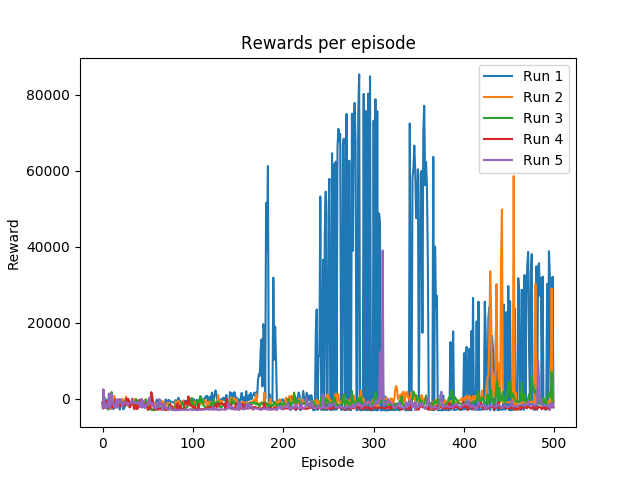
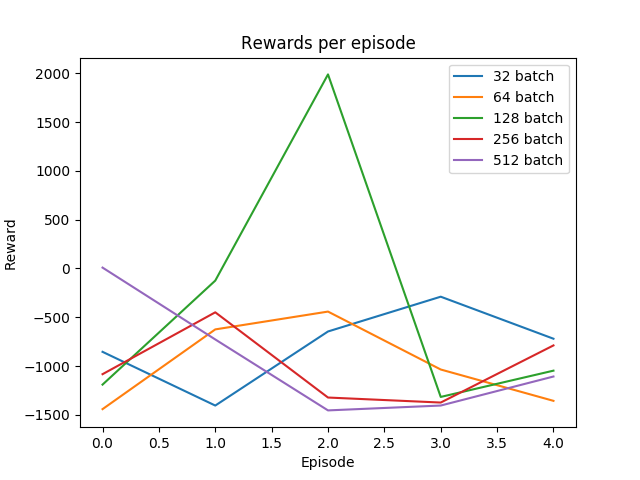
stable version, adding liors vanilla test

diff --git a/project/hendrik/script.py b/project/hendrik/script.py
@@ -19,46 +19,64 @@ def print_timestamp(string = ""):
 def print_setup():
     print("---------------------------------------------------------------------------------")
     print("| Setup: \t\t\t\t\t\t\t\t\t|")
-    print("| Memory fill:\t\t\t{}\t\tBatch Size:\t\t{}\t|".format(
+    print("| Memory fill:\t\t\t{}\t\tBatch: {}\t|".format(
     MEMORY_FILL, BATCH_SIZE ,  agent.init_epsilon))
     print("| Discount: \t\t\t{}\t\tEpsilon constant: \t{}\t|".format(agent.gamma,agent.decay_const ))
     print("| Start Epsilon:\t\t{}\t\tEpsilon decay rate:\t{}\t|".format(
-    agent.init_epsilon, agent.eps_decay_rate ))
+    agent.init_epsilon+agent.decay_const, agent.eps_decay_rate ))
     print("| Learning rate:\t\t{}\t\tUpdate rate model:\t{}\t|".format(
     agent.learning_rate, agent.train_marker ))
     print("| Reward function:\t\t{}\tTimesteps:\t\t{}\t|".format(env.reward_fn_string, TIMESTEPS))
     print("| Update rate target model \t{}\t\tEpisodes:\t\t{}\t|".format(agent.update_target_marker, TRAINING_EPISODES))
     print("---------------------------------------------------------------------------------")
 
+
+def test_run(agent):
+    test_reward_list = []
+    for i in range(TESTS):
+        test_episode_reward = 0
+        env.seed(i)
+        state = env.reset()
+        state = state.reshape((1,3))
+        for _ in range(500):
+
+            action = agent.act(state, False)[0]
+            next_state, reward, done, _ = env.step(agent.discrete_actions[action], True)
+            next_state = np.round(next_state,2)
+
+            state = next_state
+            test_episode_reward += reward
+        test_reward_list.append(test_episode_reward)
+    avg_test_reward = np.mean(test_reward_list)
+    print("\naverage reward: {}".format(avg_test_reward))
+    return avg_test_reward
+
+
 ######## CONSTANTS ############################################################
 #def: 50000
 MEMORY_SIZE = 8000000
-MEMORY_FILL = 8000
+MEMORY_FILL = 800#0
 memory = []
 #def: 30000
-TRAINING_EPISODES = 500
+TRAINING_EPISODES = 5#00
 AUTO_SAVER = 50
 SHOW_PROGRESS = 25
 # def: 2000
-TIMESTEPS = 1000
-BATCH_SIZE = 128
+TIMESTEPS = 500
+BATCH_SIZE = [32, 64, 128, 256, 512]
 RUNS = 5
-
+TEST_PROGRESS = 1
+TESTS = 1
 
 ####### INTIALISATION ##########################################################
 weights_file = "network.h5"
-
-
 input_shape = 3
-load_existent_model = False
-env = PendulumEnv(reward_function = 1)
-agent = DankAgent([-env.max_torque,env.max_torque], input_shape, BATCH_SIZE)
-
-if load_existent_model:
-    agent.load(weights_file)
+env = PendulumEnv()
+agent = DankAgent([-env.max_torque,env.max_torque], input_shape, BATCH_SIZE[0])
 agent.model.summary()
 agent.model.save_weights('model_init_weights.h5')
 agent.target_model.save_weights('target_model_init_weights.h5')
+
 
 nepisodes = 0
 nepisodes = 0
@@ -67,22 +85,24 @@ list_acc_reward = [[] for _ in range(RUNS)]
 list_episode_reward = [[] for _ in range(RUNS)]
 
 list_epsilon = [[] for _ in range(RUNS)]
-list_time = []
+list_avg_reward = [[] for _ in range(RUNS)]
 
+list_time = []
 
 print_setup()
 
 for run in range(RUNS):
-
-
     # resetting the agent
+
+    env = PendulumEnv()
+    agent = DankAgent([-env.max_torque,env.max_torque], input_shape, BATCH_SIZE[run])
     acc_reward = 0
     memory = []
     agent.model.load_weights('model_init_weights.h5')
     agent.target_model.load_weights('target_model_init_weights.h5')
-    agent.q_target = np.zeros((512,20))
-    agent.t = np.zeros((512,20))
-    agent.a = np.zeros((512,20))
+    agent.q_target = np.zeros((BATCH_SIZE[run],int(agent.ticks)))
+    agent.t = np.zeros((BATCH_SIZE[run],int(agent.ticks)))
+    agent.a = np.zeros((BATCH_SIZE[run],int(agent.ticks)))
     agent.epsilon = 1.0
 
 
@@ -90,7 +110,7 @@ for run in range(RUNS):
     start_time = time.time()
 
     for ep in range(TRAINING_EPISODES):
-        if ep+1 % AUTO_SAVER == 0 and nepisodes != 0:
+        if (ep+1) % AUTO_SAVER == 0 and nepisodes != 0:
             print_timestamp("saved")
             str_status = 'saved'
             agent.save(weights_file)
@@ -98,18 +118,19 @@ for run in range(RUNS):
         #state = np.array((state[0],state[2]))
         state = np.round(state,2)
         episode_reward = 0
-
+        if (ep+1) % TEST_PROGRESS == 0 and ep != 0:
+            list_avg_reward[run].append(test_run(agent))
         if ep < 1:
             print("filling memory")
         while len(memory) < MEMORY_FILL and ep < 1:
             action = agent.act(state, True)[0]
 
-            next_state, reward, done , _ = env.step(agent.discrete_actions[action])
+            next_state, reward, done , _ = env.step(agent.discrete_actions[action], False)
             next_state = np.round(next_state,2)
             memory.append((state, action, reward+10*run, next_state, done))
 
-            if len(memory) > BATCH_SIZE:
-                batch = random.sample(memory, BATCH_SIZE)
+            if len(memory) > BATCH_SIZE[run]:
+                batch = random.sample(memory, BATCH_SIZE[run])
                 agent.train(batch,memory)
 
             state = next_state
@@ -118,7 +139,7 @@ for run in range(RUNS):
             print("memory filled with {} samples".format(MEMORY_FILL))
 
         for t in range(TIMESTEPS):
-            if ep % SHOW_PROGRESS == 0 and ep != 0 and len(memory) >= MEMORY_FILL:
+            if (ep+1) % SHOW_PROGRESS == 0 and ep != 0 and len(memory) >= MEMORY_FILL:
                 env.render()
                 sys.stdout.flush()
                 # print("\rRendering episode {}/{}".format(ep,TRAINING_EPISODES),end="")
@@ -129,7 +150,7 @@ for run in range(RUNS):
             action = agent.act(state, True)[0]
             #print(state)
 
-            next_state, reward, done , _ = env.step(agent.discrete_actions[action])
+            next_state, reward, done , _ = env.step(agent.discrete_actions[action], False)
             #next_state = np.array((next_state[0],next_state[2]))
             next_state = np.round(next_state,2)
 
@@ -141,8 +162,8 @@ for run in range(RUNS):
             memory.append(np.array((state, action, reward, next_state, done)))
 
 
-            if len(memory) >= BATCH_SIZE:
-                batch = random.sample(memory, BATCH_SIZE)
+            if len(memory) >= BATCH_SIZE[run]:
+                batch = random.sample(memory, BATCH_SIZE[run])
 
                 agent.train(batch,memory)
             else:
@@ -158,7 +179,6 @@ for run in range(RUNS):
                 agent.epsilon,str_status),end="")
         sys.stdout.flush()
 
-            # print("Episode {}/{}\t| Step: {}\t| Reward: {}\t".format(ep, TRAINING_EPISODES,t,episode_reward))
         agent.epsilon = agent.init_epsilon*np.exp(-agent.eps_decay_rate*ep)+agent.decay_const
 
 
@@ -166,10 +186,6 @@ for run in range(RUNS):
         list_acc_reward[run].append(acc_reward)
         list_epsilon[run].append(agent.epsilon)
 
-
-        nepisodes += 1
-        if agent.cnt % agent.update_target_marker == 0:
-            agent.update_target_model()
 
     print("\n")
     end_time = time.time()
@@ -207,10 +223,24 @@ for run in range(RUNS):
     # plt.title("Accumulated Reward over Time (Smoothed over window size {})".format(smoothing_window))
     # fig3.savefig('acc_reward.png')
 
+plt.figure()
+for i in range(RUNS):
+    plt.plot(list_avg_reward[i], label='{} batch'.format(BATCH_SIZE[i]))
+plt.plot(np.mean(list_avg_reward,axis=0), label = 'mean')
+plt.plot(np.mean(list_avg_reward,axis=0)+np.std(list_acc_reward), label = 'mean+std. dev.',linestyle = '--', color='pink')
+plt.plot(np.mean(list_avg_reward,axis=0)-np.std(list_acc_reward), label = 'mean-std. dev.',linestyle = '--',color='pink')
+plt.title("Avg. reward in a intermediate test every {} episodes".format(TEST_PROGRESS))
+plt.xlabel("Test")
+plt.ylabel("Reward")
+plt.legend()
+plt.savefig('avg_test_reward.png')
+
+
+
 
 plt.figure()
 for i in range(RUNS):
-    plt.plot(list_episode_reward[i], label='Run {}'.format(i+1))
+    plt.plot(list_episode_reward[i], label='{} batch'.format(BATCH_SIZE[i]))
 plt.title("Rewards per episode")
 plt.xlabel("Episode")
 plt.ylabel("Reward")
@@ -220,7 +250,7 @@ plt.savefig('reward_per_episode.png')
 
 plt.figure()
 for i in range(RUNS):
-    plt.plot(list_acc_reward[i],label='Run {}'.format(i+1))
+    plt.plot(list_acc_reward[i],label = '{} batch'.format(BATCH_SIZE[i]))
 plt.plot(np.mean(list_acc_reward,axis=0), label = 'mean')
 plt.plot(np.mean(list_acc_reward,axis=0)+np.std(list_acc_reward), label = 'mean+std. dev.',linestyle = '--', color='pink')
 plt.plot(np.mean(list_acc_reward,axis=0)-np.std(list_acc_reward), label = 'mean-std. dev.',linestyle = '--',color='pink')

diff --git a/project/hendrik/pendulum.py b/project/hendrik/pendulum.py
@@ -11,7 +11,7 @@ class PendulumEnv(gym.Env):
         'video.frames_per_second' : 1
     }
 
-    def __init__(self, reward_function=0):
+    def __init__(self): #, reward_function=0):
         self.max_speed=8
         self.max_torque=2.
         self.dt=.05
@@ -23,16 +23,18 @@ class PendulumEnv(gym.Env):
 
         self._seed()
 
-        if reward_function == 0:
-            self.reward_fn_string = "binary"
-            def reward(pendulum):
+        # if reward_function == 0:
+        self.reward_fn_string = "binary"
+        def reward(pendulum):
+            return 1 if -0.1 <= angle_normalize(pendulum.state[0]) <= 0.1 else 0
+        self.reward = reward
+    # else:
+        self.reward_fn_string = "heuristic"
+        def my_reward(pendulum, vanilla):
+            if vanilla:
                 return 1 if -0.1 <= angle_normalize(pendulum.state[0]) <= 0.1 else 0
-            self.reward = reward
-        else:
-            self.reward_fn_string = "heuristic"
-            def my_reward(pendulum):
-                # print("angle_normalize(pendulum.state[0])")
-                if -0.05 <= angle_normalize(pendulum.state[0]) <= 0.05:
+            else:
+                if -0.1 <= angle_normalize(pendulum.state[0]) <= 0.1:
                     if np.abs(pendulum.state[1]) > 1:
                         return 0
                     else:
@@ -40,25 +42,13 @@ class PendulumEnv(gym.Env):
                 else:
                     return (-1 * np.abs(angle_normalize(pendulum.state[0])))
 
-                    #if -0.025 <= angle_normalize(pendulum.state[0]) <= 0.025 and np.abs(velocity) < 2.0:
-                    #    return 10-np.abs(velocity)
-                    #else:
-                    #    if -0.05 <= angle_normalize(pendulum.state[0]) <= 0.05 and np.abs(velocity) < 2.0:
-                    #        return 20-np.abs(velocity)
-                    #    else:
-                    #        if -0.01 <= angle_normalize(pendulum.state[0]) <= 0.1 and np.abs(velocity) < 2.0:
-                    #            return 50-np.abs(velocity)
-                    #        else:
-                                # return (1-np.abs(angle_normalize(pendulum.state[0])))*1
-                                # print(velocity)
-                    #            return -10
-            self.reward = my_reward
+        self.reward = my_reward
 
     def _seed(self, seed=None):
         self.np_random, seed = seeding.np_random(seed)
         return [seed]
 
-    def step(self,u):
+    def step(self,u, vanilla = False):
         th, thdot = self.state
 
         g = 10.
@@ -72,7 +62,7 @@ class PendulumEnv(gym.Env):
         newth = th + newthdot*dt
         newthdot = np.clip(newthdot, -self.max_speed, self.max_speed)
 
-        reward = self.reward(self)
+        reward = self.reward(self, vanilla)
 
         self.state = np.array([newth, newthdot])
         # print(angle_normalize(self.state[0]))

diff --git a/project/hendrik/pendulumAgent.py b/project/hendrik/pendulumAgent.py
@@ -26,8 +26,8 @@ class DankAgent():
         self.model = self._build_model()
         self.target_model = self._build_target_model()
         self.cnt = 1
-        self.train_marker = 20
-        self.update_target_marker = 1
+        self.train_marker = 1
+        self.update_target_marker = 20
 
 
     def _discretize_actions(self):
@@ -71,25 +71,17 @@ class DankAgent():
         if en_explore == True:
             pick = np.random.choice(['random','greedy'], p = [self.epsilon,1-self.epsilon])
 
-            # if random.random() <= self.epsilon and en_explore:
             if pick == 'random':
-                # print(pick)
-                # action = random.choice(self.disc_actions)==self.disc_actions
                 action = np.where(self.disc_actions==random.choice(self.disc_actions))[0]
             else:
-                # print(pick)
                 state = state.reshape((1,self.input_shape))
                 action_values = self.model.predict(state)
-
-                # print("action values",action_values)
-                # print("greedy pick from action values",np.argmax(action_values[0]))
                 action = np.array((np.argmax(action_values),))
-                # print("discrete actions", self.discrete_actions)
         else:
-            state = state.reshape((1,self.input_shape))
+            state = state.reshape((1,3))
             action_values = self.model.predict(state)
             action = np.array((np.argmax(action_values),))
-            print(action)
+
         return action
 
     # def train(self,state, action, reward, next_state, done):
@@ -100,7 +92,6 @@ class DankAgent():
         reward_batch = np.array([x[2] for x in batch])
         next_state_batch = np.array([x[3] for x in batch])
         done_batch = np.array([x[4] for x in batch])
-
 
         q_target = self.model.predict(state_batch, batch_size = self.batch_size)
 
@@ -133,12 +124,13 @@ class DankAgent():
         #     t = self.target_model.predict(next_state)[0]
         #
         #     target[0][action] = reward + self.gamma * t[np.argmax(a)]
+        # self.model.fit(state, target,  epochs=1, verbose=0)
+
         if self.cnt % self.train_marker == 0 and en_explore == False:
-            # self.model.fit(state, target,  epochs=1, verbose=0)
             self.model.train_on_batch(state_batch, q_target)
-            # print("updated")
 
-
+        if self.cnt % self.update_target_marker == 0 and en_explore == False:
+            self.update_target_model()
 
         self.cnt += 1
 

diff --git a/project/hendrik/evaluate_agent.py b/project/hendrik/evaluate_agent.py
@@ -24,7 +24,7 @@ env.cnt += 1
 input_shape = 3
 batch_size = 64
 test_agent = DankAgent([-env.max_torque,env.max_torque],input_shape,batch_size)
-test_agent.model.load_weights('network.h5')
+test_agent.load('network.h5')
 
 list_episode_reward = []
 
@@ -33,12 +33,11 @@ TESTING_EPISODES = 10
 for ep in range(TESTING_EPISODES):
     state = env.reset()
     episode_reward = 0
-    for t in range(1000):
+    for t in range(500):
         env.render()
-        # action = random.choice(test_agent.discrete_actions)
+
         action = test_agent.act(state, False)
         next_state, reward, done , _ = env.step(test_agent.discrete_actions[action])
-        # next_state, reward, done , _ = env.step(action)
 
         state = next_state
         episode_reward += reward
